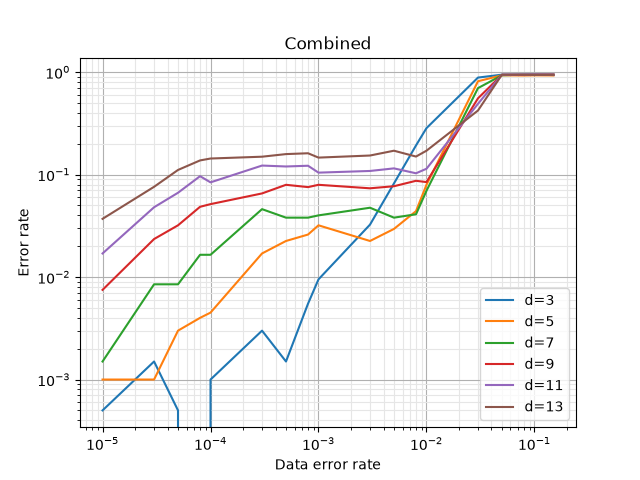
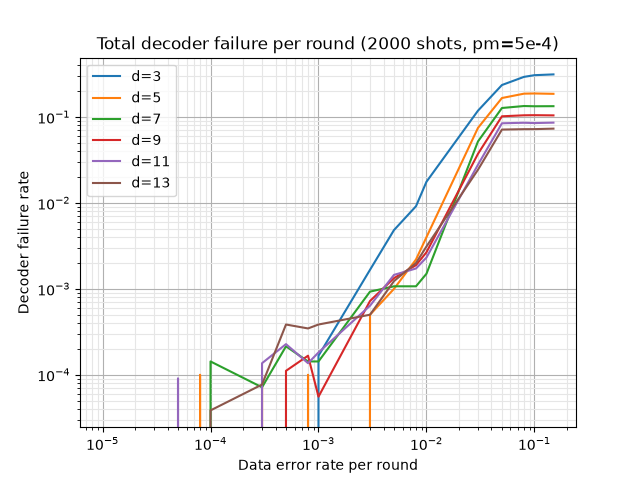
Correcting toric matching graph and decoding errors. Running exps

diff --git a/stabilizer_sim/decoding/toric_decoding.py b/stabilizer_sim/decoding/toric_decoding.py
@@ -4,7 +4,7 @@ import numpy as np
 from pymatching import Matching
 
 
-def build_toric_matching_graph(distance, rounds, px, pz, pm):
+def build_toric_matching_graph(distance, rounds, px, py, pz, pm):
     """
     For now assuming a square graph
     """
@@ -22,6 +22,9 @@ def build_toric_matching_graph(distance, rounds, px, pz, pm):
         pz = 1e-9
     if pm == 0:
         pm = 1e-9
+
+    px = px + py
+    pz = pz + py
     
     weightx = -np.log(px/(1-px))
     weightz = -np.log(pz/(1-pz))
@@ -72,15 +75,16 @@ def build_toric_matching_graph(distance, rounds, px, pz, pm):
                     weight=weightm
                 )
         else:
-            matching.add_boundary_edge(
-                (num_z_stabilizers*r)+s,
-                weight=weightm
-            )
+            for s in range(distance**2):
+                matching.add_boundary_edge(
+                    (num_z_stabilizers*r)+s,
+                    weight=weightm
+                )
 
-            matching.add_boundary_edge(
-                (num_z_stabilizers*r)+s+num_detectors_z,
-                weight=weightm
-            )
+                matching.add_boundary_edge(
+                    (num_z_stabilizers*r)+s+num_detectors_z,
+                    weight=weightm
+                )
 
     return matching
 
@@ -148,7 +152,7 @@ def build_toric_matching_graph(distance, rounds, px, pz, pm):
 
 #     return x_errors % 2, z_errors % 2
 
-
+# NOTE: This currently assumes all data qubits have the same noise model -> Shortest path = minimum weight
 def extract_toric_predicted_errors(matched_errors, distance, rounds):
     d = distance
     n_stab = d * d
@@ -164,7 +168,7 @@ def extract_toric_predicted_errors(matched_errors, distance, rounds):
     for u, v in matched_errors:
 
         # Continue if match with temporal boundary
-        if -1 in matched_errors:
+        if u == -1 or v == -1:
             continue
 
         u, v = int(u), int(v)
@@ -188,24 +192,34 @@ def extract_toric_predicted_errors(matched_errors, distance, rounds):
         dv = signed_step(i1, i2)
         step = 1 if dv > 0 else -1
         i = i1
+
         for _ in range(abs(dv)):
             k = i if step > 0 else (i - 1) % d
+
             if is_x:
-                x_errors[2*k + 1, j1] ^= 1
+                # X error: shared qubit of neighbouring Z stabilisers
+                x_errors[2*((k + 1) % d), j1] ^= 1
             else:
-                z_errors[2*((k + 1) % d), j1] ^= 1
+                # Z error: shared qubit of neighbouring X stabilisers
+                z_errors[2*k + 1, j1] ^= 1
+
             i = (i + step) % d
 
         # horizontal leg: row i2, from column j1 to column j2
         dh = signed_step(j1, j2)
         step = 1 if dh > 0 else -1
         j = j1
+
         for _ in range(abs(dh)):
             k = j if step > 0 else (j - 1) % d
+
             if is_x:
-                x_errors[2*i2, k] ^= 1
+                # X error: shared qubit of neighbouring Z stabilisers
+                x_errors[2*i2 + 1, (k + 1) % d] ^= 1
             else:
-                z_errors[2*i2 + 1, (k + 1) % d] ^= 1
+                # Z error: shared qubit of neighbouring X stabilisers
+                z_errors[2*i2, k] ^= 1
+
             j = (j + step) % d
 
     return x_errors, z_errors

diff --git a/stabilizer_sim/codes/toric.py b/stabilizer_sim/codes/toric.py
@@ -55,7 +55,7 @@ class ToricCode(Code):
             show_errors=False,
     ):
 
-        matching_graph = to.build_toric_matching_graph(self.dist, rounds, px, pz, pm)
+        matching_graph = to.build_toric_matching_graph(self.dist, rounds, px, py, pz, pm)
 
         # Checking which part of the process is slowing down the run
         self.times = {
